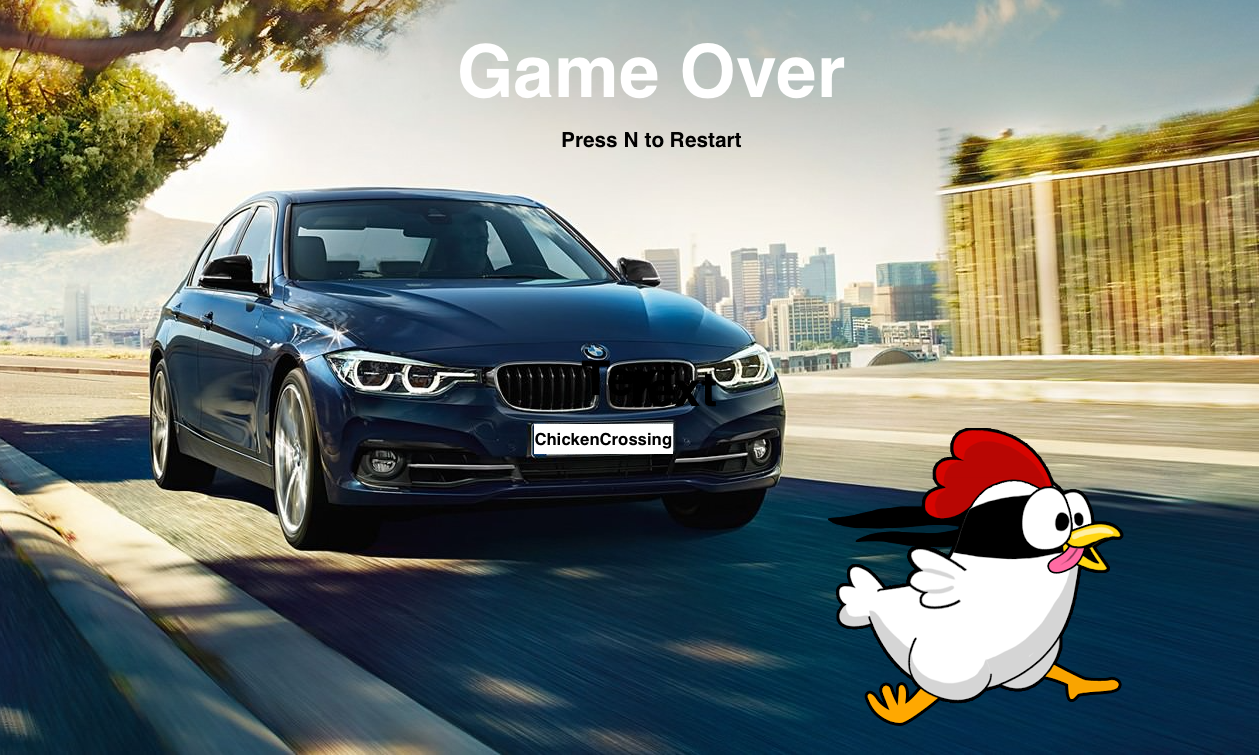
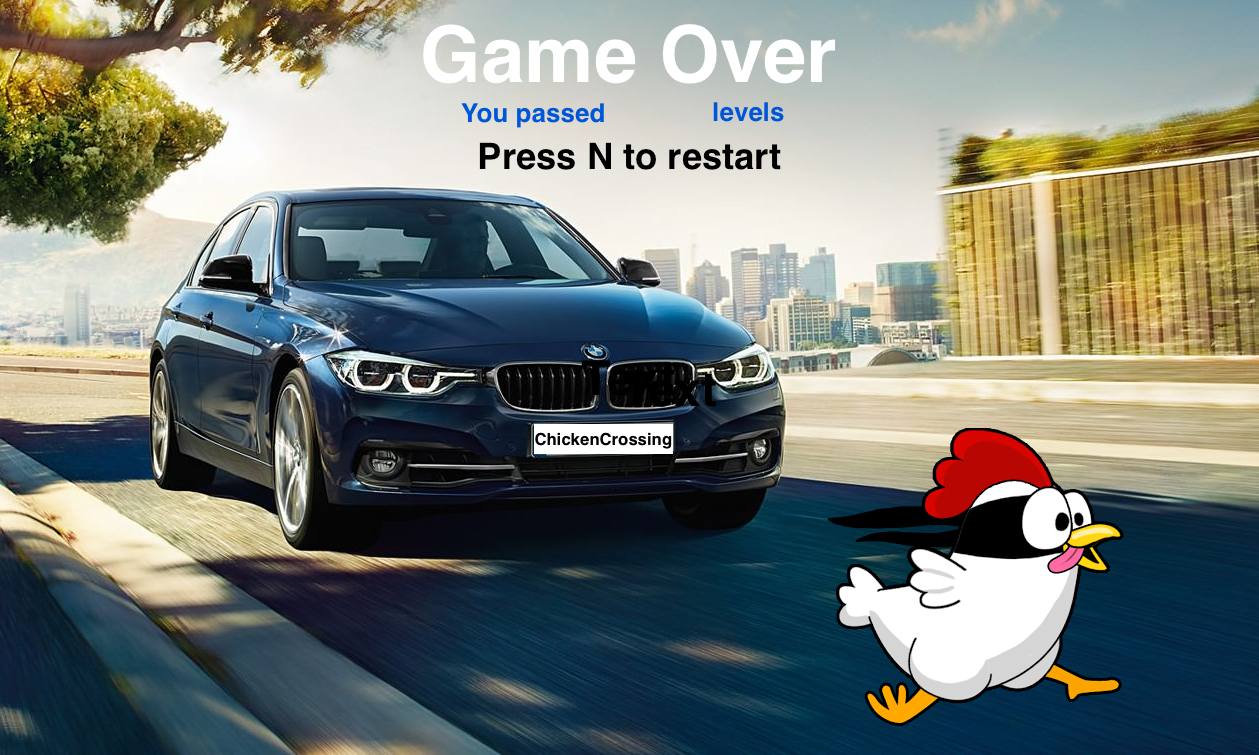
add end game score

Changed region(s): [[0.3098, 0.0305, 0.6815, 0.2437]]

diff --git a/bin/bundle.js b/bin/bundle.js
@@ -198,7 +198,7 @@ class Game {
   }
 
   endGame(ctx) {
-    Util.endGame(ctx);
+    Util.endGame(ctx, this.level);
   }
 
   gameOver(){
@@ -358,16 +358,22 @@ const Util = {
   },
   screen(ctx) {
     let sprite2 = new Image();
-    sprite2.src = 'assets/screen.png';
+    sprite2.src = 'assets/startscreen.png';
 
     sprite2.onload = () =>{
       ctx.drawImage(sprite2, 0, 0, 500, 500);
     };
   },
-  endGame(ctx) {
+  endGame(ctx, level) {
     let sprite3 = new Image();
     sprite3.src = 'assets/endgame.png';
-    ctx.drawImage(sprite3,0,0,500,500);
+
+    sprite3.onload = () =>{
+      ctx.drawImage(sprite3, 0, 0, 500, 500);
+      ctx.font="25px Georgia";
+      ctx.fillText(level-1, 253,82);
+    };
+
   },
 
 };

diff --git a/src/util.js b/src/util.js
@@ -6,16 +6,22 @@ const Util = {
   },
   screen(ctx) {
     let sprite2 = new Image();
-    sprite2.src = 'assets/screen.png';
+    sprite2.src = 'assets/startscreen.png';
 
     sprite2.onload = () =>{
       ctx.drawImage(sprite2, 0, 0, 500, 500);
     };
   },
-  endGame(ctx) {
+  endGame(ctx, level) {
     let sprite3 = new Image();
     sprite3.src = 'assets/endgame.png';
-    ctx.drawImage(sprite3,0,0,500,500);
+
+    sprite3.onload = () =>{
+      ctx.drawImage(sprite3, 0, 0, 500, 500);
+      ctx.font="25px Georgia";
+      ctx.fillText(level-1, 253,82);
+    };
+
   },
 
 };

diff --git a/src/game.js b/src/game.js
@@ -126,7 +126,7 @@ class Game {
   }
 
   endGame(ctx) {
-    Util.endGame(ctx);
+    Util.endGame(ctx, this.level);
   }
 
   gameOver(){
